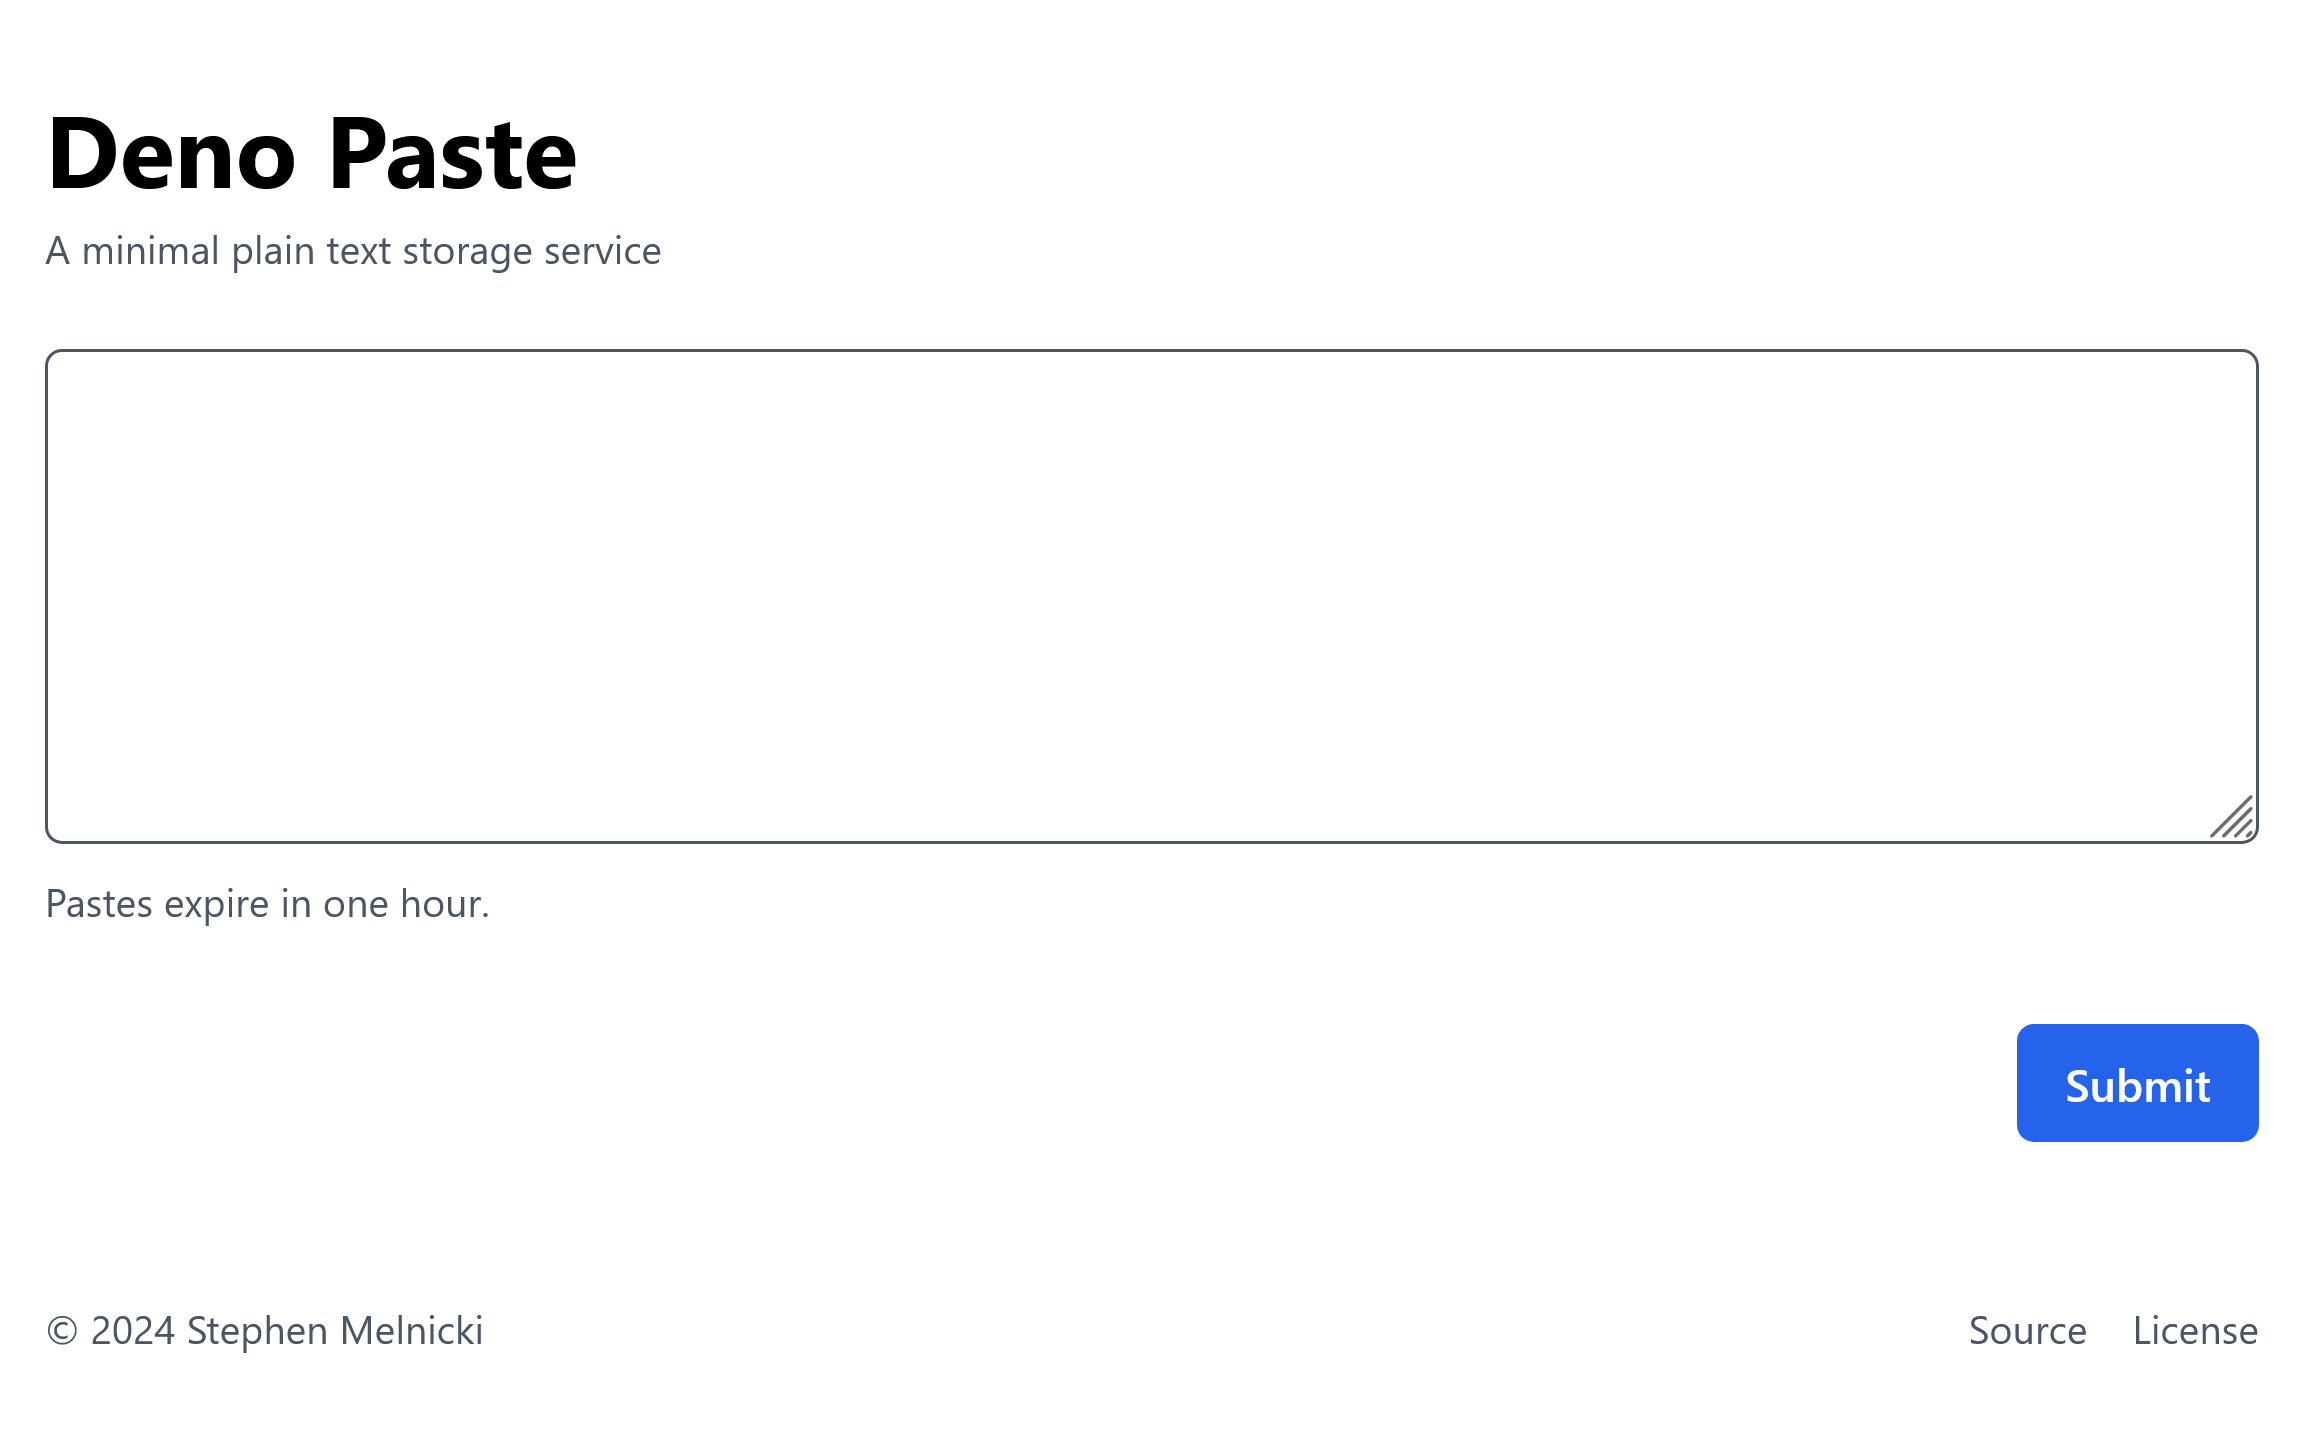
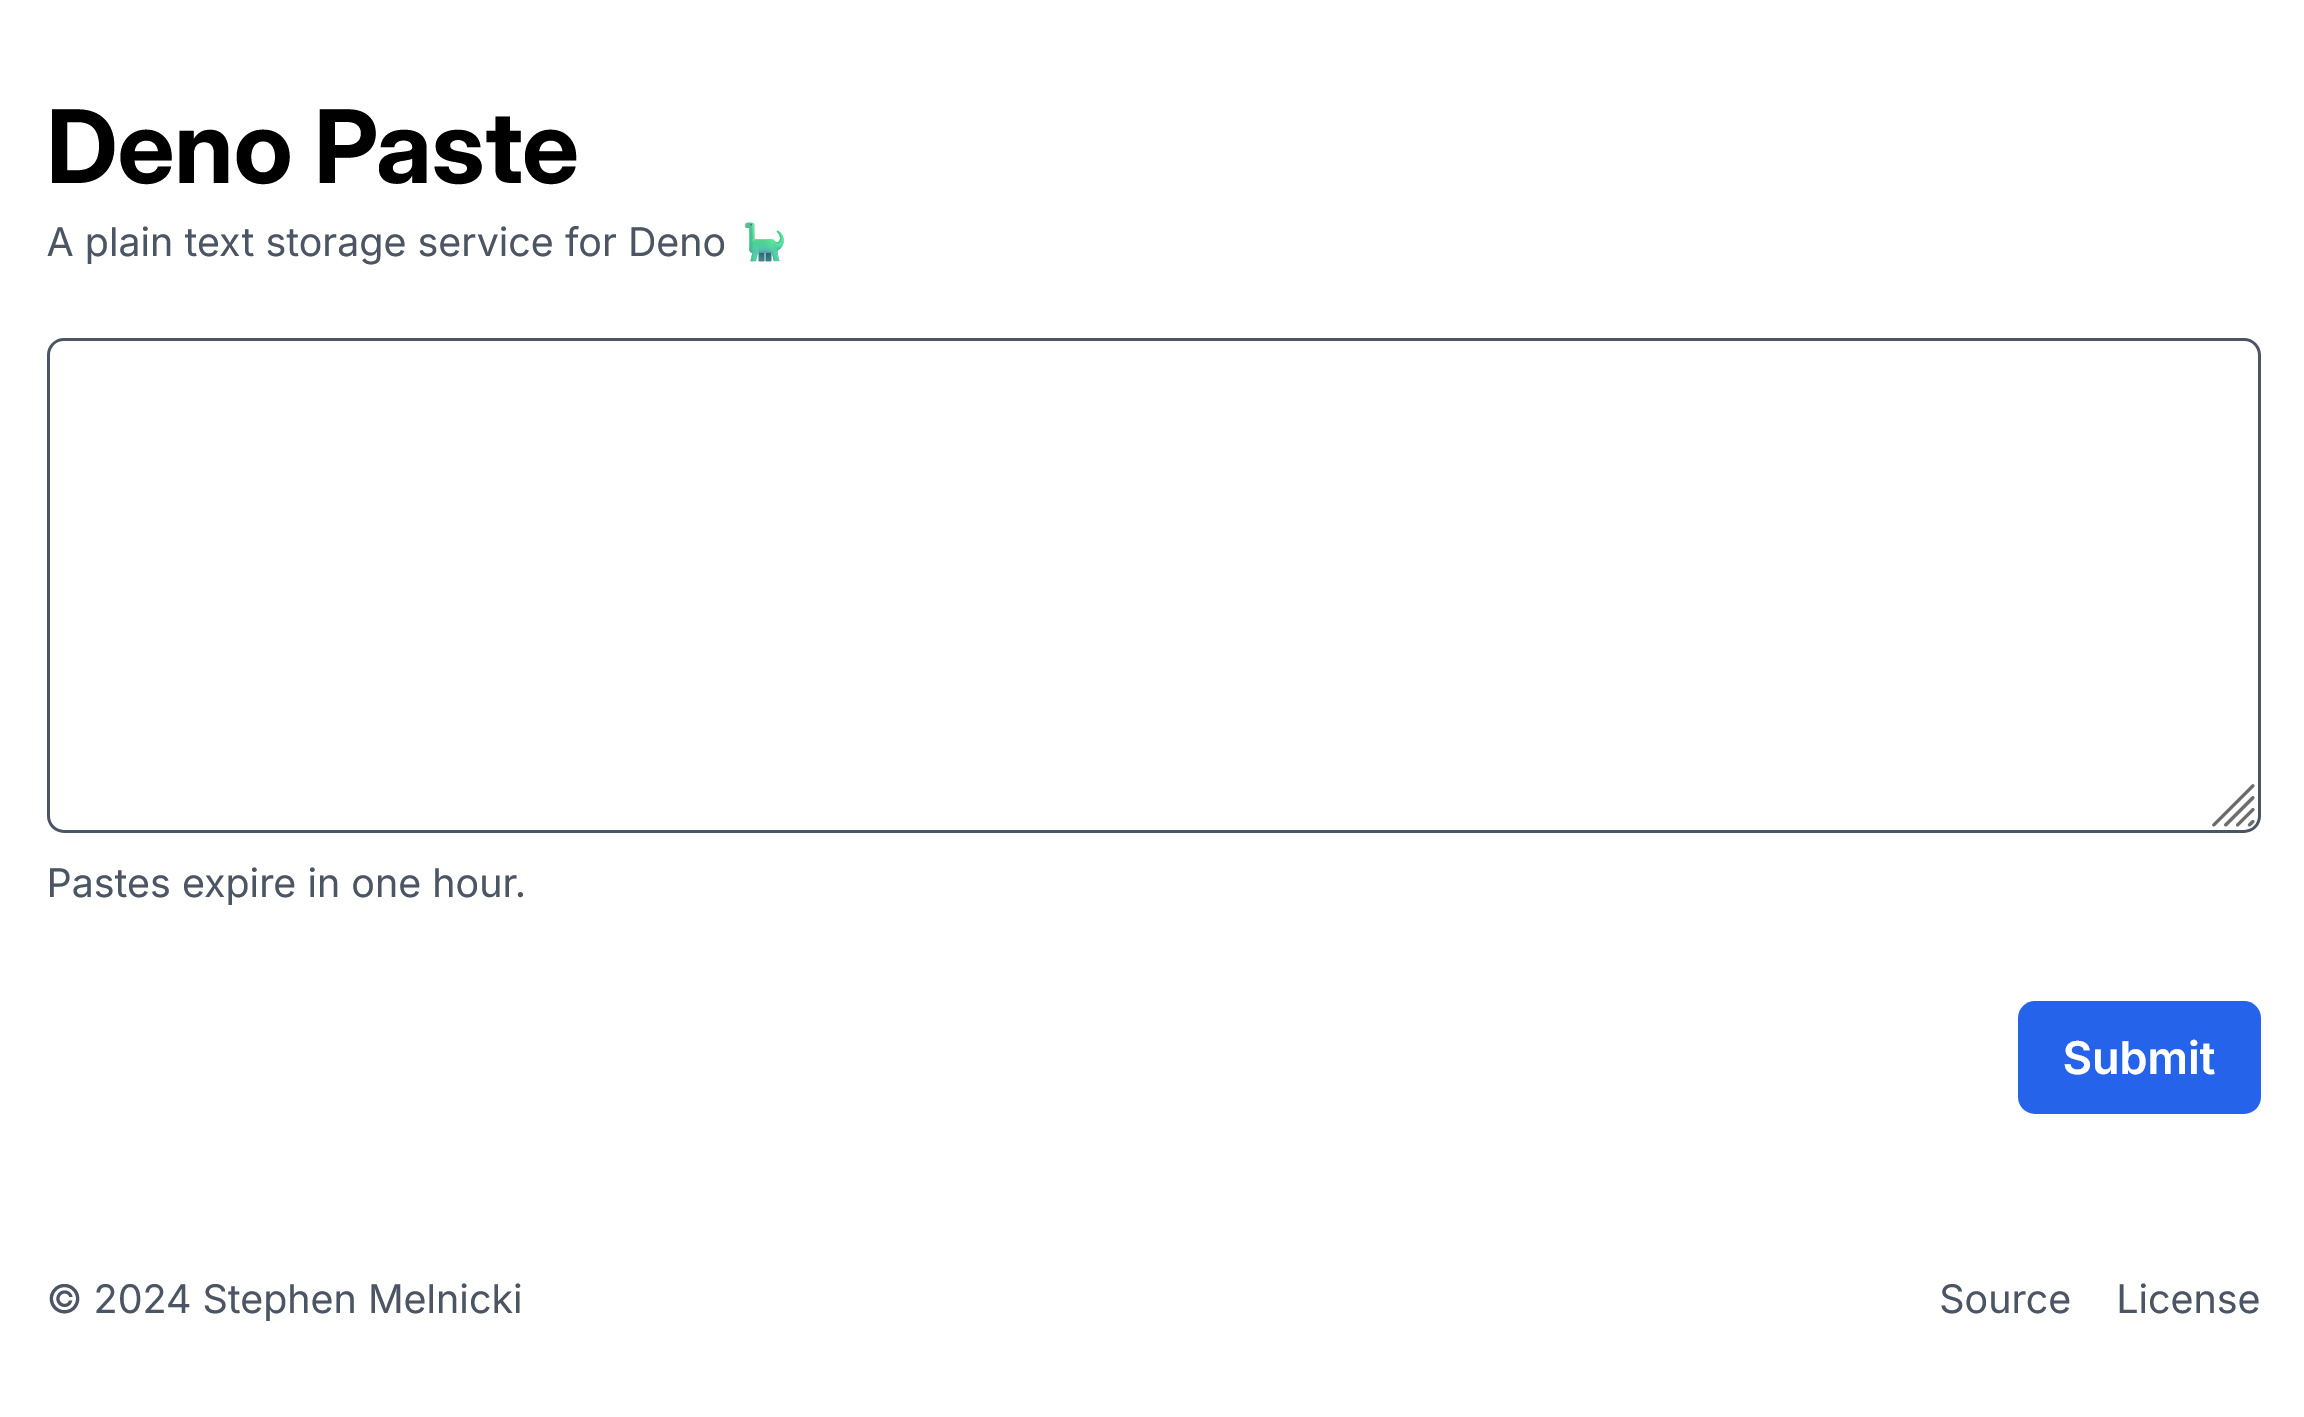
changing import shortcut and updating description

diff --git a/routes/_app.tsx b/routes/_app.tsx
@@ -1,7 +1,7 @@
 import { PageProps } from "$fresh/server.ts";
 
-import Header from "components/Header.tsx";
-import Footer from "components/Footer.tsx";
+import Header from "@/components/Header.tsx";
+import Footer from "@/components/Footer.tsx";
 
 export default function App({ Component }: PageProps) {
   return (
@@ -12,7 +12,7 @@ export default function App({ Component }: PageProps) {
         <title>Deno Paste</title>
         <meta
           name="description"
-          content="A minimal plain text storage service"
+          content="A plain text storage service for Deno 🦕"
         />
         <link rel="stylesheet" type="text/css" href="/styles.css" />
       </head>

diff --git a/utils/id.ts b/utils/id.ts
@@ -1,10 +1,10 @@
 export const CHARS =
   "abcdefghijklmnopqrstuvwxyzABCDEFGHIJKLMNOPQRSTUVWXYZ0123456789";
 
-function getRandomCharacter(): string {
+function getRandomCharacter() {
   return CHARS.charAt(Math.floor(Math.random() * CHARS.length));
 }
 
-export function createId(length = 8): string {
+export function createId(length = 8) {
   return Array.from({ length }, getRandomCharacter).join("");
 }

diff --git a/tests/routes_test.ts b/tests/routes_test.ts
@@ -1,7 +1,8 @@
 import { createHandler, ServeHandlerInfo } from "$fresh/server.ts";
-import manifest from "../fresh.gen.ts";
-import config from "../fresh.config.ts";
 import { assertEquals, assertExists } from "$std/assert/mod.ts";
+
+import manifest from "@/fresh.gen.ts";
+import config from "@/fresh.config.ts";
 
 const CONNECTION_INFO: ServeHandlerInfo = {
   remoteAddr: {

diff --git a/routes/[id]/index.tsx b/routes/[id]/index.tsx
@@ -1,7 +1,7 @@
 import { Handlers, PageProps } from "$fresh/server.ts";
-import { getPasteById } from "utils/db.ts";
 
-import Paste from "components/Paste.tsx";
+import Paste from "@/components/Paste.tsx";
+import { getPasteById } from "@/utils/db.ts";
 
 interface Paste {
   id: string;

diff --git a/main.ts b/main.ts
@@ -8,7 +8,7 @@
 import "$std/dotenv/load.ts";
 
 import { start } from "$fresh/server.ts";
-import manifest from "./fresh.gen.ts";
-import config from "./fresh.config.ts";
+import manifest from "@/fresh.gen.ts";
+import config from "@/fresh.config.ts";
 
 await start(manifest, config);

diff --git a/routes/index.tsx b/routes/index.tsx
@@ -1,7 +1,7 @@
 import { Handlers } from "$fresh/server.ts";
 
-import Form from "components/Form.tsx";
-import { createNewPaste } from "utils/db.ts";
+import Form from "@/components/Form.tsx";
+import { createNewPaste } from "@/utils/db.ts";
 
 const MAX_SIZE = 64 * 1024; // 64 KiB
 

diff --git a/components/Header.tsx b/components/Header.tsx
@@ -7,7 +7,7 @@ export default function Header() {
         </h1>
       </a>
       <p class="mt-1 text-sm text-gray-600 dark:text-gray-400">
-        A minimal plain text storage service.
+        A plain text storage service for Deno 🦕
       </p>
     </header>
   );

diff --git a/tests/id_test.ts b/tests/id_test.ts
@@ -1,5 +1,5 @@
 import { assertEquals, assertMatch } from "$std/assert/mod.ts";
-import { createId } from "utils/id.ts";
+import { createId } from "@/utils/id.ts";
 
 Deno.test("returns a string of length 8 by default", () => {
   const id = createId();

diff --git a/routes/[id]/raw.tsx b/routes/[id]/raw.tsx
@@ -1,5 +1,5 @@
 import { Handlers, PageProps } from "$fresh/server.ts";
-import { getPasteById } from "utils/db.ts";
+import { getPasteById } from "@/utils/db.ts";
 
 interface Paste {
   id: string;

diff --git a/utils/db.ts b/utils/db.ts
@@ -1,4 +1,4 @@
-import { createId } from "utils/id.ts";
+import { createId } from "@/utils/id.ts";
 
 const db = await Deno.openKv();
 
